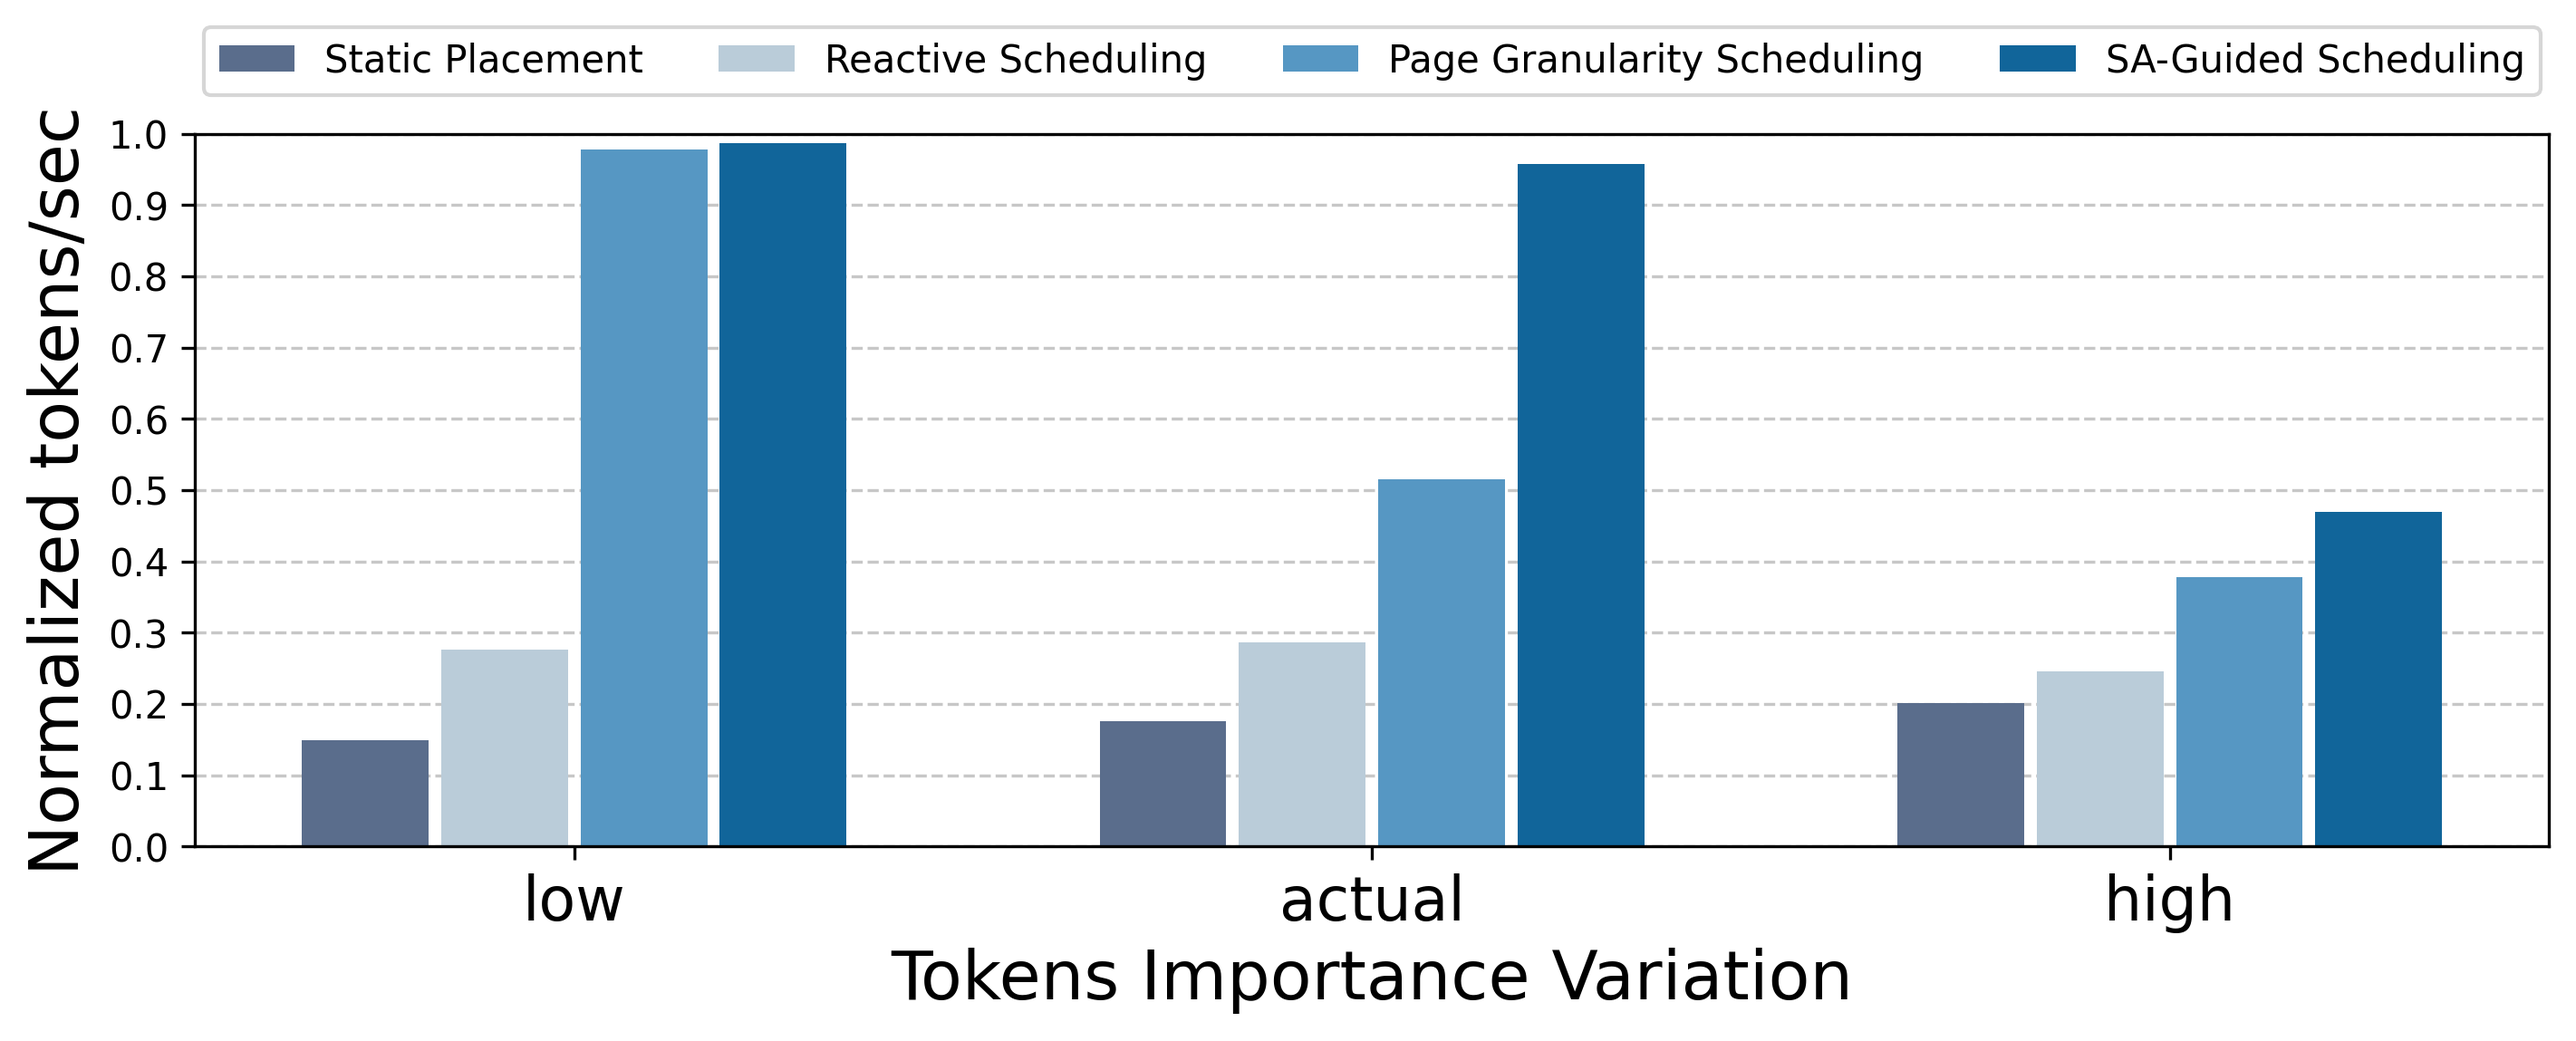
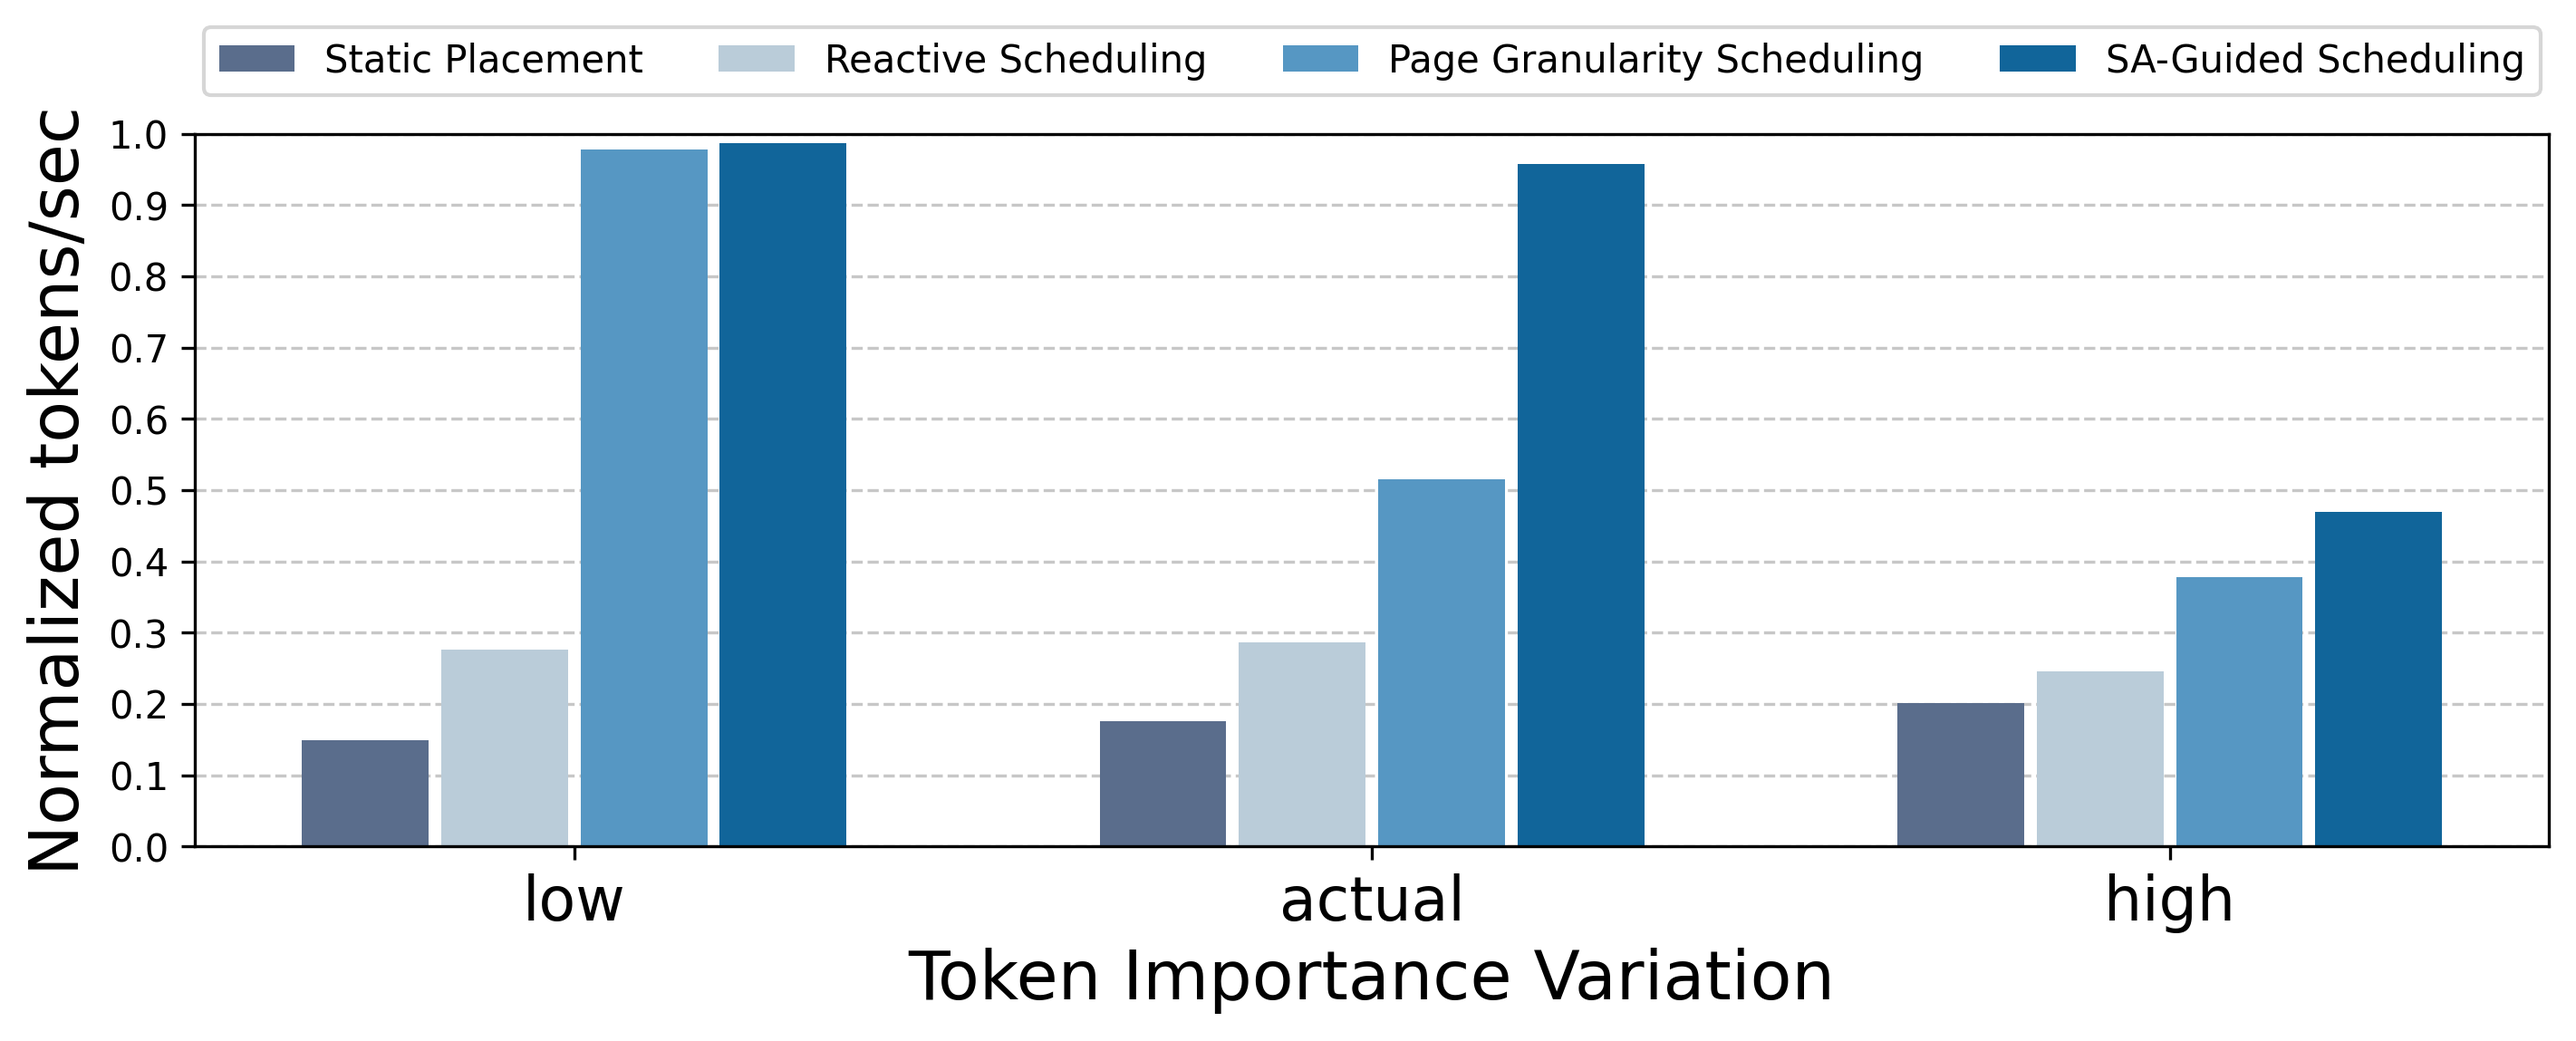
change random

Changed region(s): [[0.3405, 0.9138, 0.7119, 0.9748]]

diff --git a/plot_scripts/plot_random_bars.py b/plot_scripts/plot_random_bars.py
@@ -182,7 +182,7 @@ if __name__ == "__main__":
 
         
     # axes labels & ticks
-    ax.set_xlabel('Tokens Importance Variation', fontsize=18)
+    ax.set_xlabel('Token Importance Variation', fontsize=18)
     ax.set_ylabel('Normalized tokens/sec', fontsize=18)
     ax.set_xticks(index)
     ax.set_xticklabels(tar_random, fontsize=16)
